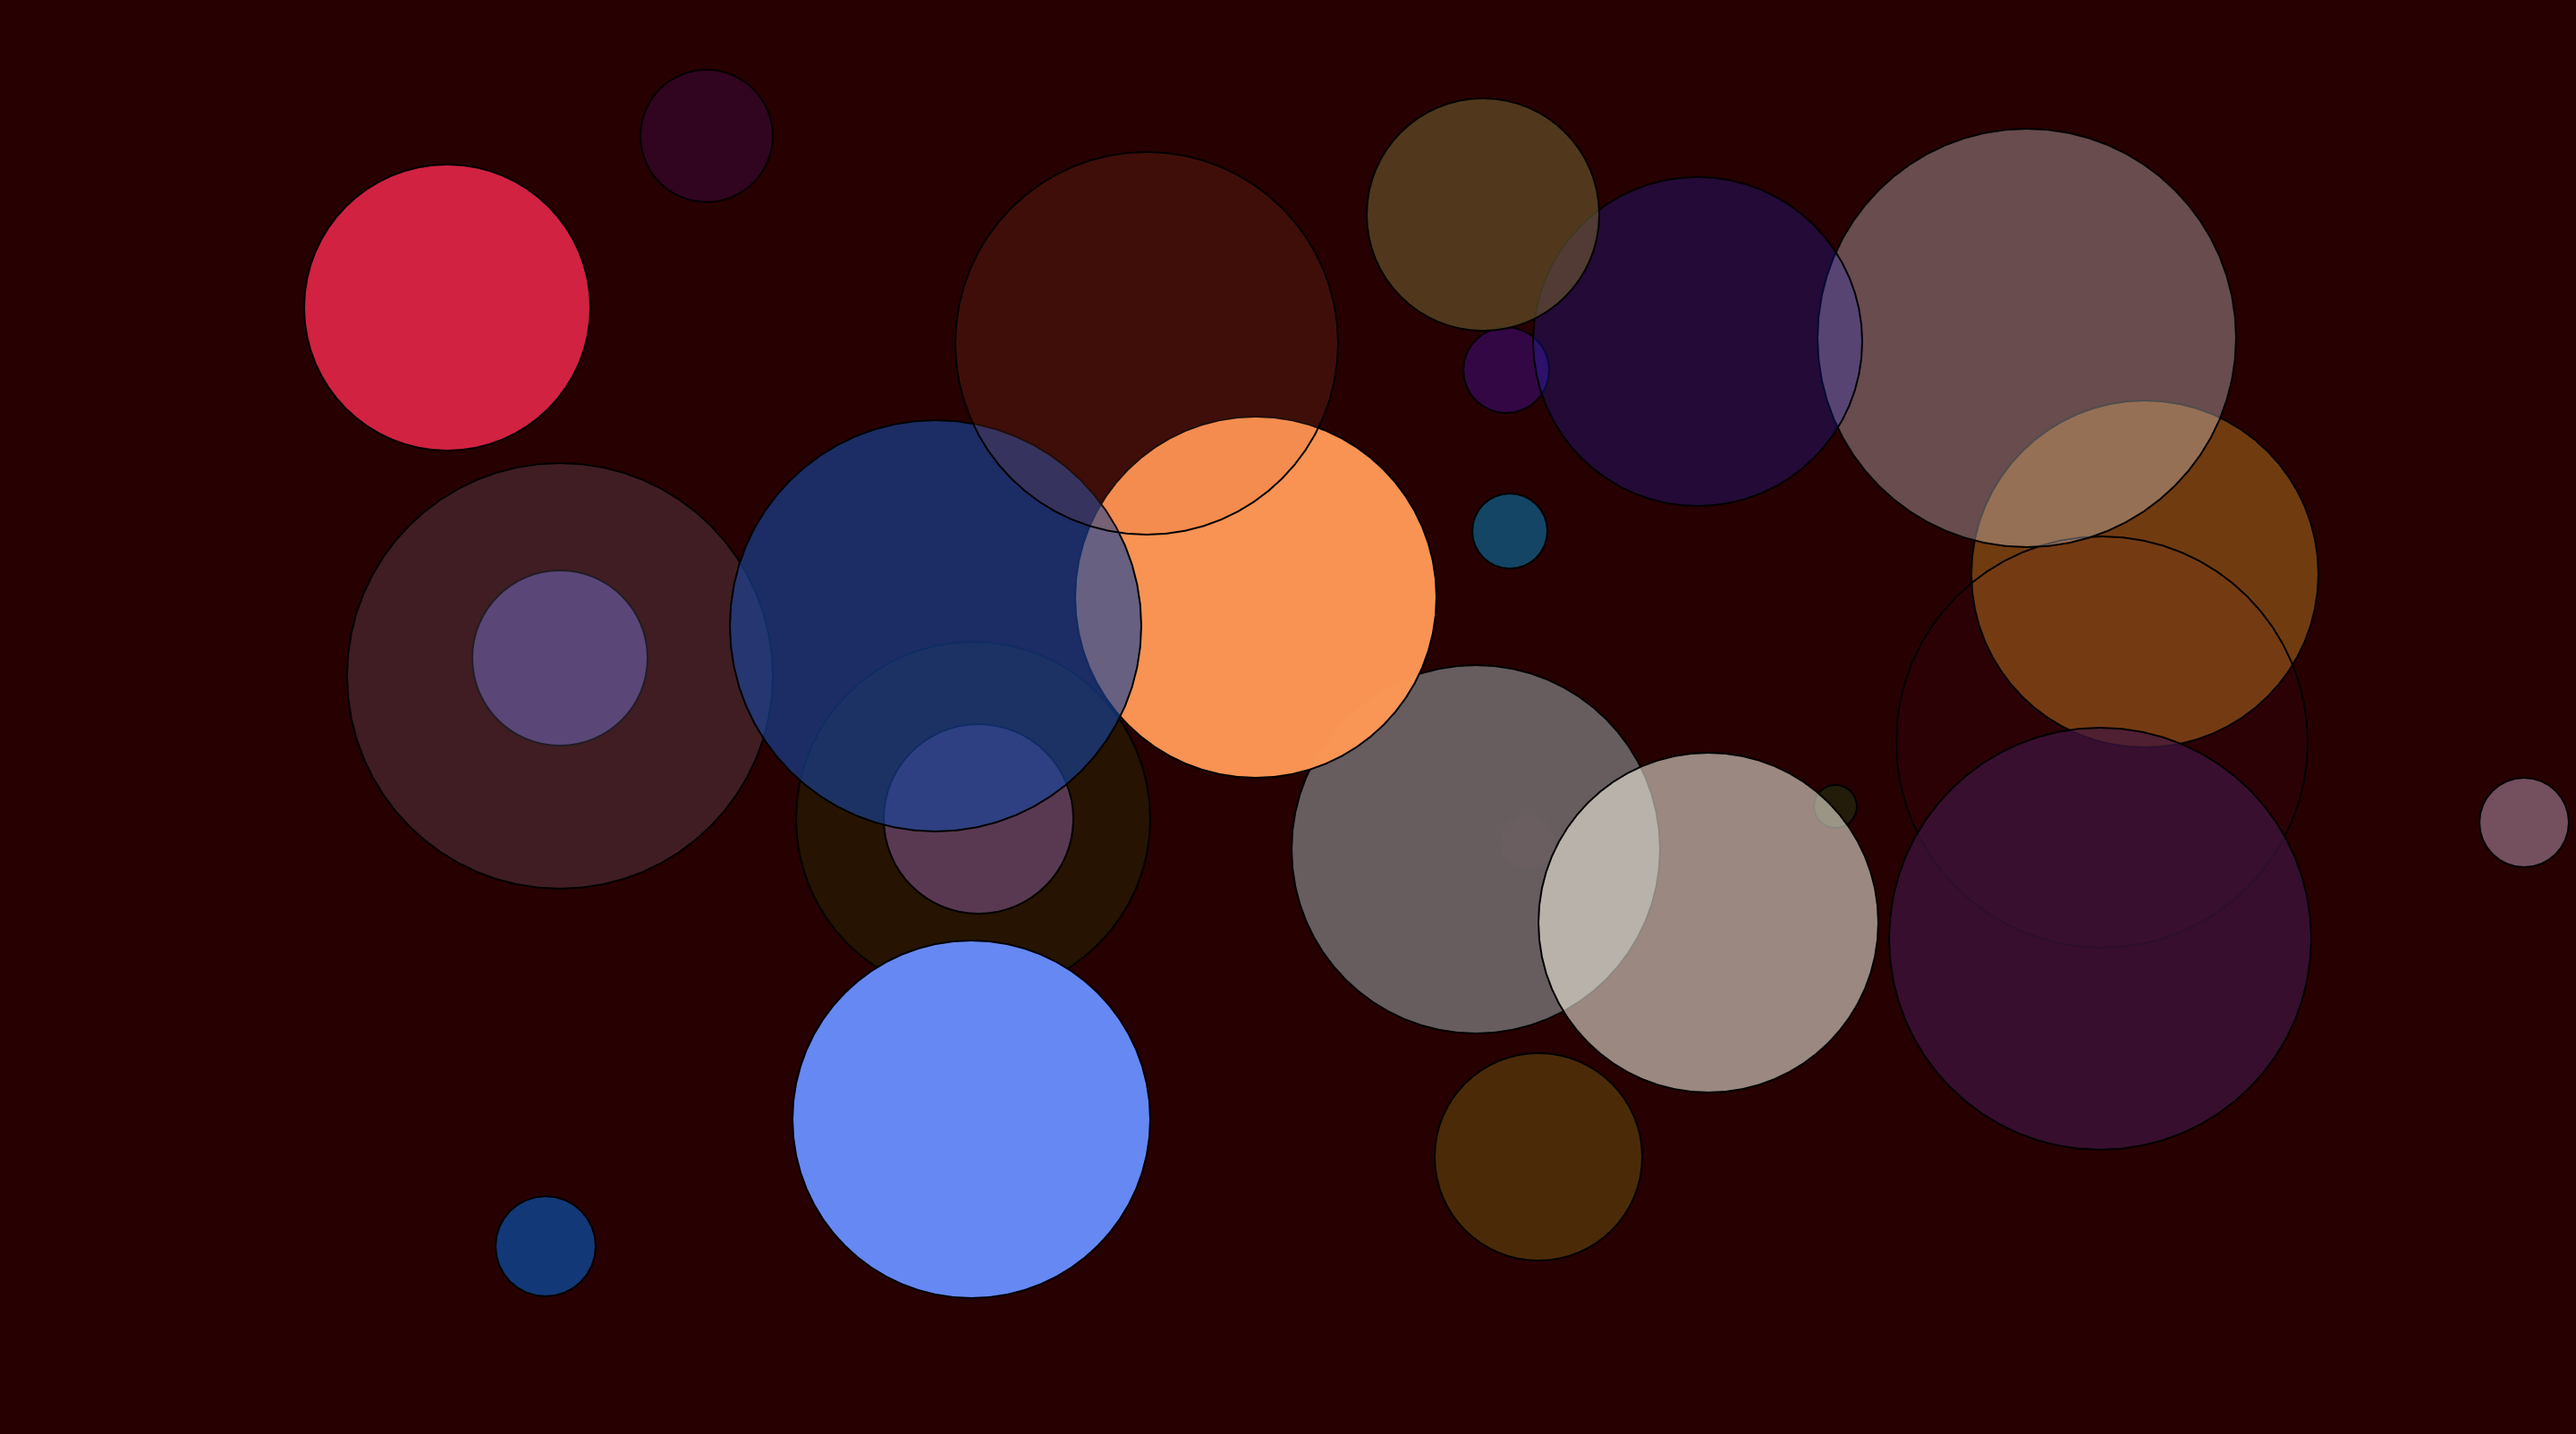
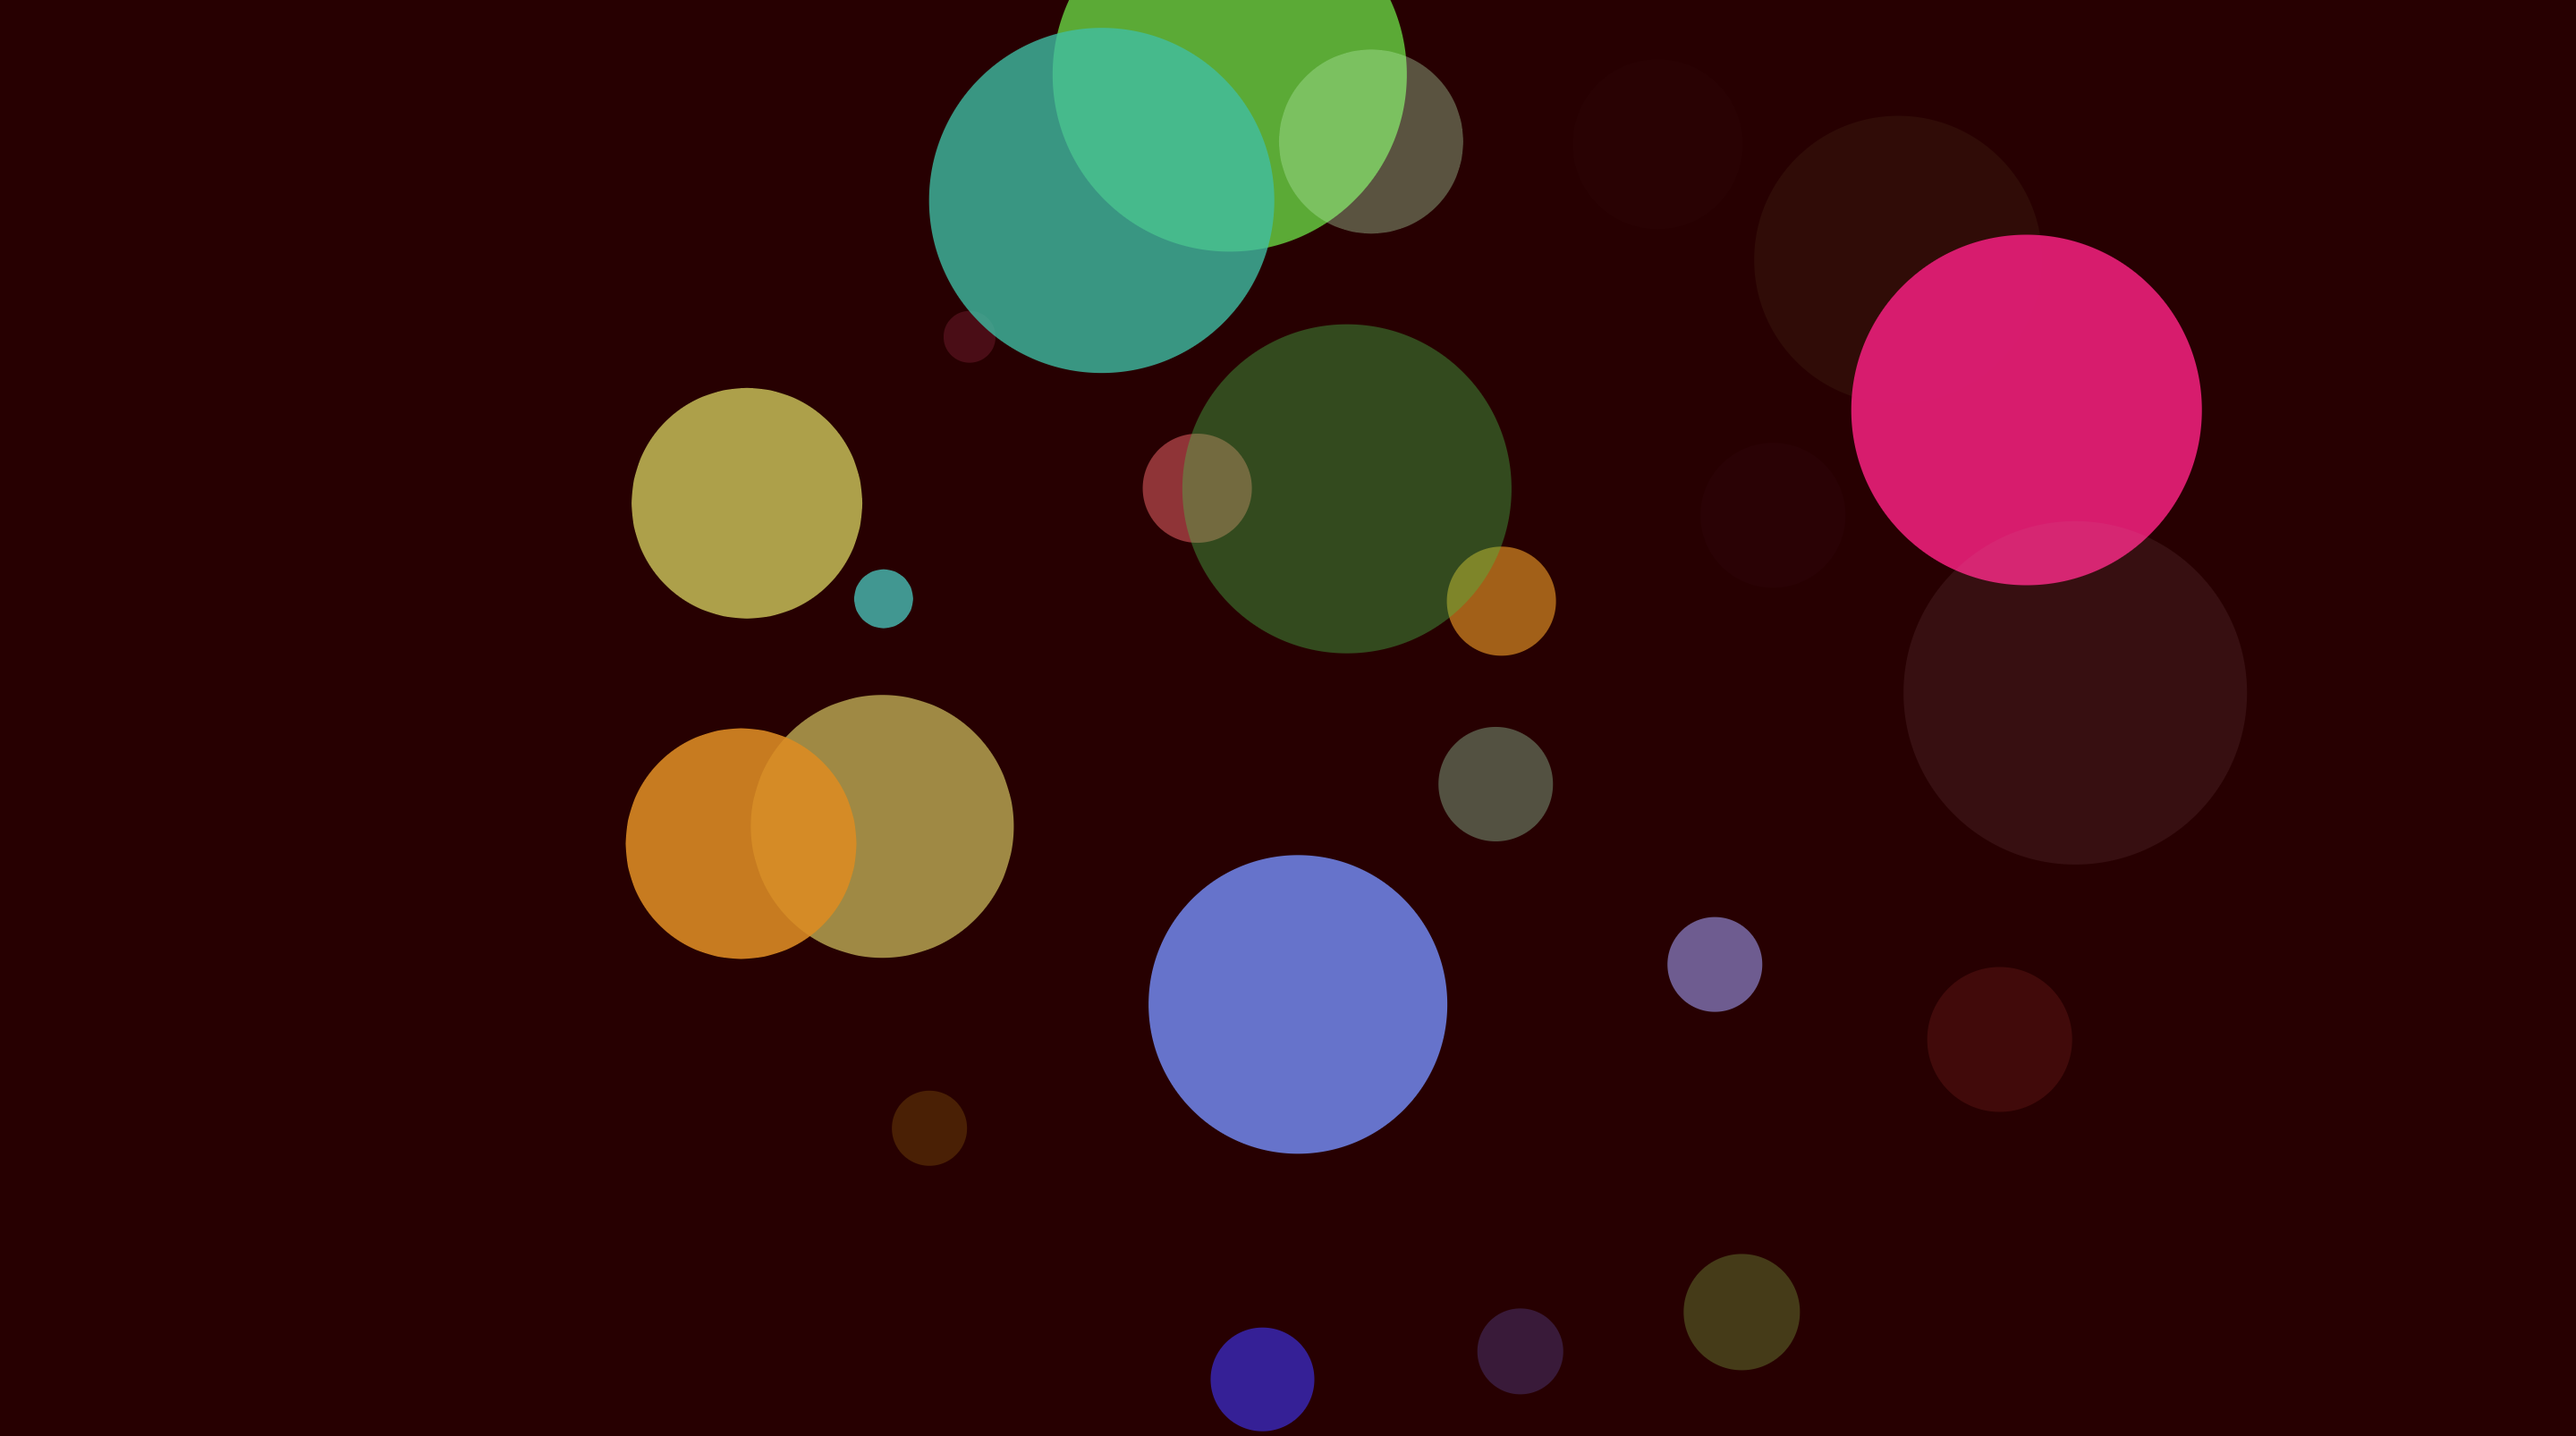
Change project 3

diff --git a/project3/project3.js b/project3/project3.js
@@ -1,29 +1,59 @@
-var circles = [];
+var mass = [];
+var posX = [];
+var posY = [];
+var velocityX = [];
+var velocityY = [];
+var colors = [];
+var diameter = [];
 
 function setup() {
-  createCanvas(windowWidth, windowHeight); 
+  createCanvas(windowWidth, windowHeight);
 }
+
 function draw() {
   background(40, 0, 0);
-  for(i = 0; i < circles.length; i++) {
-    drawCircle(circles[i]);
+  
+  for (var i = 0; i < mass.length; i++) {
+    var accelerationX = 0, accelerationY = 0;
+    
+    for (var j = 0; j < mass.length; j++) {
+      if (i != j) {
+        var distX = posX[j] - posX[i];
+        var distY = posY[j] - posY[i];
+
+        var dist = sqrt(distX * distX + distY * distY);
+        if (dist < 1) dist = 1;
+
+        var force = (dist - 500) * mass[j] / dist;
+        accelerationX += force * distX;
+        accelerationY += force * distY;
+      }
+    }
+    
+    velocityX[i] = velocityX[i] * 0.5 + accelerationX * mass[i];
+    velocityY[i] = velocityY[i] * 0.5 + accelerationY * mass[i];
+  }
+  
+  for (var k = 0; k < mass.length; k++) {
+    posX[k] += velocityX[k];
+    posY[k] += velocityY[k];
+    
+    noStroke();
+    fill(colors[k]);
+    ellipse(posX[k], posY[k], diameter[k], diameter[k]);
   }
 }
 
-function setCircles() {
-  circles.push({
-    posX: mouseX,
-    posY: mouseY,
-    radius: int(random(10, height / 6)),
-    col: color(int(random(0, 255)), int(random(0, 255)), int(random(0, 255)), int(random(0, 255)))
-  });
+function addCircles() {
+  mass.push(random(0.003, 0.03));
+  posX.push(mouseX);
+  posY.push(mouseY);
+  velocityX.push(0);
+  velocityY.push(0);
+  colors.push(color(int(random(0, 255)), int(random(0, 255)), int(random(0, 255)), int(random(0, 255))));
+  diameter.push(int(random(20, height / 4)));
 }
 
-function drawCircle(circle) {
-  fill(circle.col);
-  ellipse(circle.posX, circle.posY, circle.radius * 2, circle.radius * 2);
-}
-
-function mousePressed() {
-  setCircles();
+function mouseClicked() {
+  addCircles();
 }
